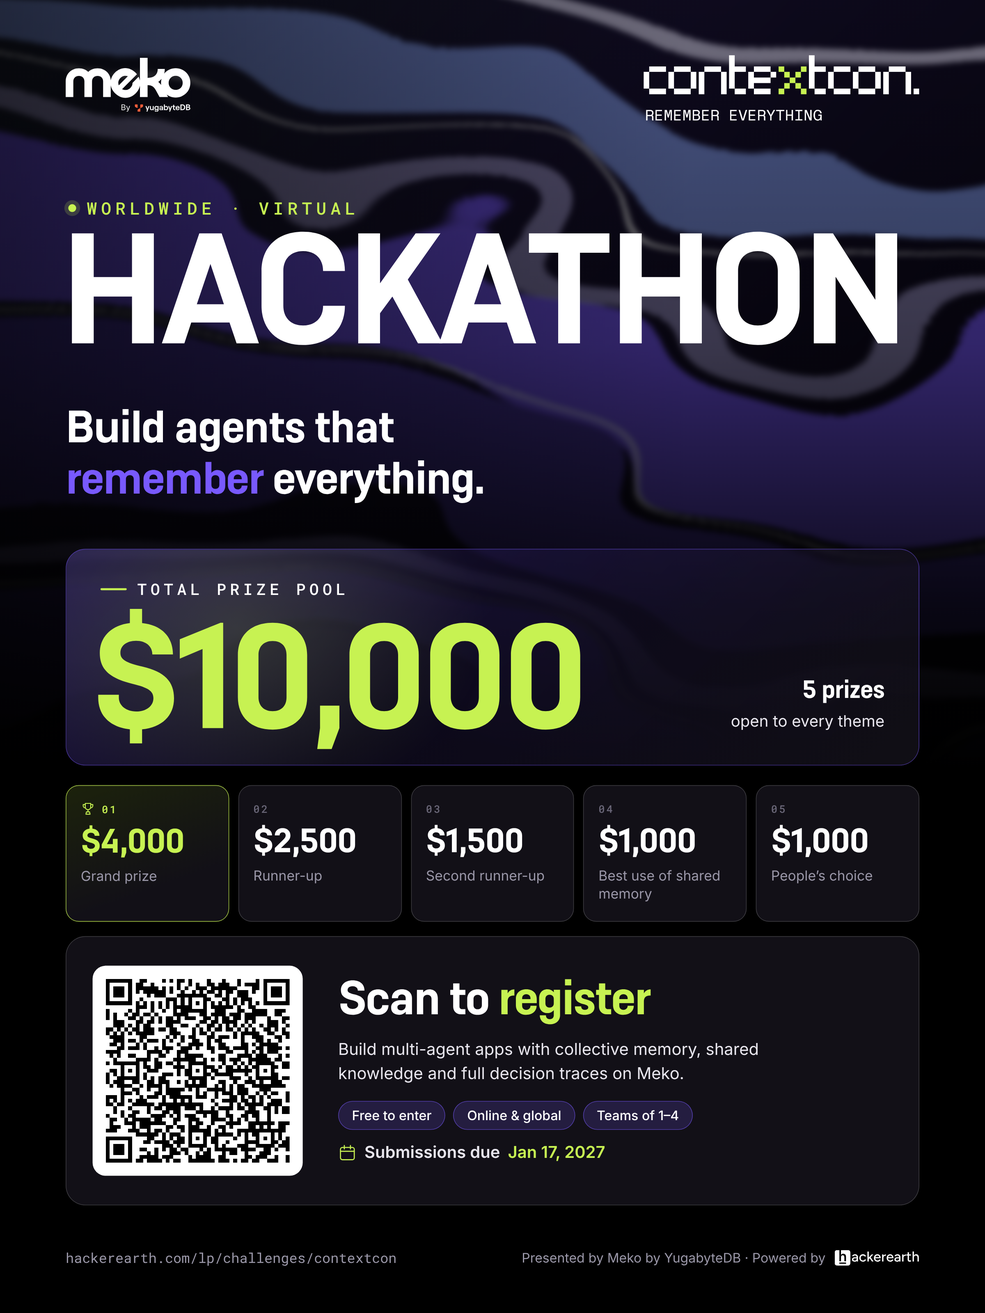
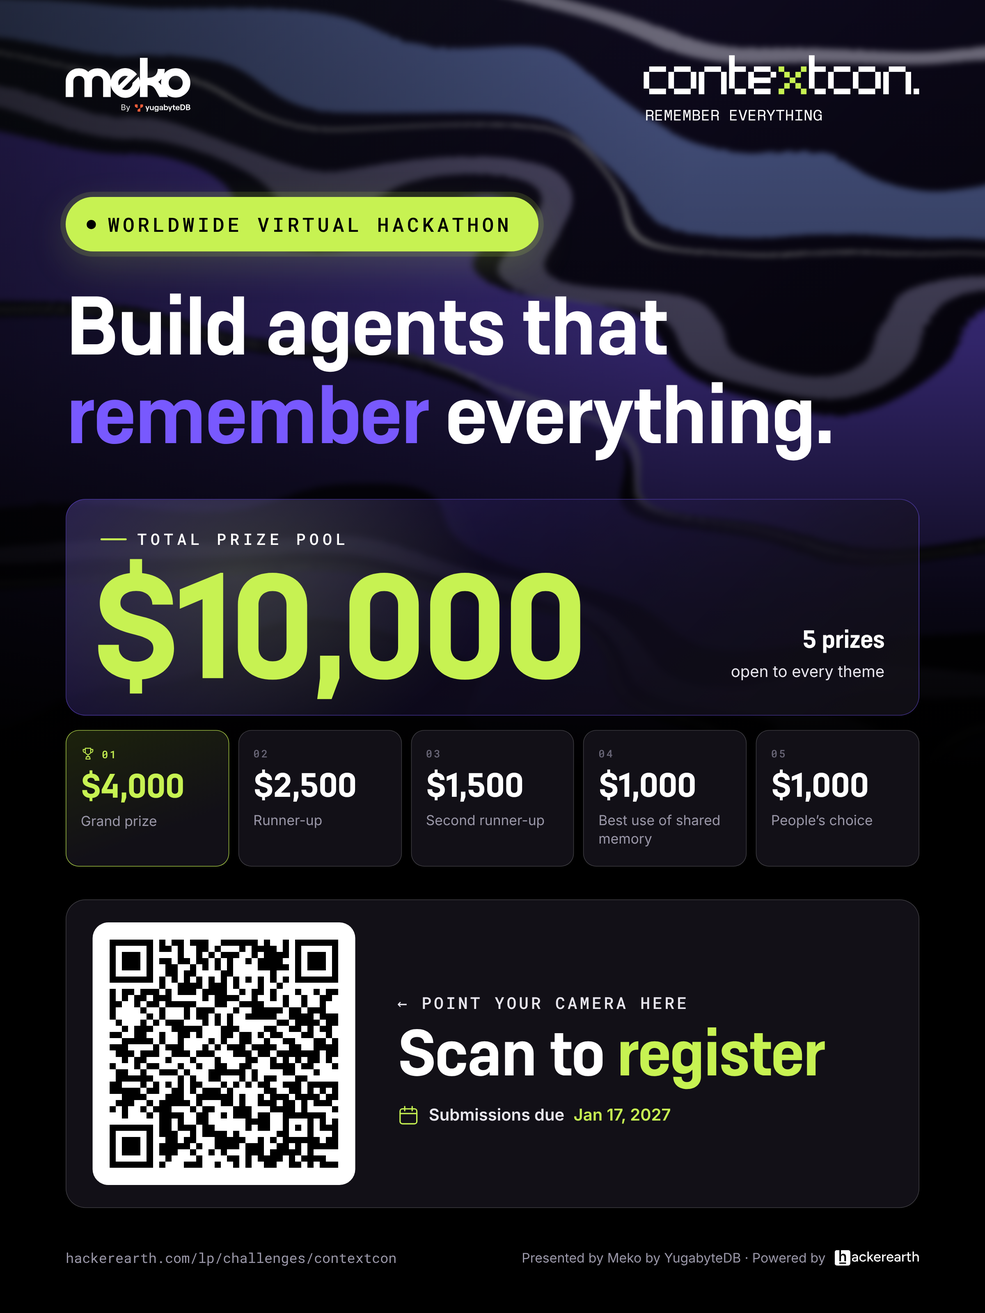
Prize poster: hackathon pill button, larger headline, big clean QR
Shorter QR link (37 modules vs 49) for easier scanning; registration
card reduced to call-to-action and deadline.

Claude-Session: https://claude.ai/code/session_011WvSfbuXTc2R9BKwTF66Kj

Changed region(s): [[0.0625, 0.125, 0.9375, 0.9062], [0.75, 0.4688, 0.9062, 0.6875], [0.5938, 0.5625, 0.7188, 0.6875]]

diff --git a/banners/contextcon-poster-prizes-2400x3200.html b/banners/contextcon-poster-prizes-2400x3200.html
@@ -28,13 +28,14 @@ body{min-height:100vh;display:grid;place-items:center;-webkit-font-smoothing:ant
 .meko svg{display:block;width:100%;height:auto}
 .cc{position:absolute;right:0;top:84px;width:420px}
 .cc img{display:block;width:100%;height:auto}
-.eyebrow{position:absolute;left:4px;top:300px;margin:0;display:flex;align-items:center;gap:16px;font-family:var(--mono);font-weight:500;font-size:26px;letter-spacing:.24em;text-transform:uppercase;color:var(--lime)}
-.eyebrow::before{content:'';width:12px;height:12px;border-radius:50%;background:var(--lime);box-shadow:0 0 0 6px rgba(199,242,82,.18)}
-.hack{position:absolute;left:-8px;top:348px;margin:0;font-family:'Bloka',var(--sans);font-weight:700;font-size:250px;line-height:.9;letter-spacing:-.03em;text-transform:uppercase;color:var(--white)}
-h1{position:absolute;left:0;top:618px;width:1300px;margin:0;font-family:'Bloka',var(--sans);font-weight:700;font-size:72px;line-height:1.08;letter-spacing:-.025em;color:var(--white)}
+.pillbtn{position:absolute;left:0;top:300px;margin:0;display:inline-flex;align-items:center;gap:18px;padding:22px 40px 22px 32px;border-radius:999px;
+  background:var(--lime);color:#000;font-family:var(--mono);font-weight:500;font-size:30px;letter-spacing:.16em;text-transform:uppercase;
+  box-shadow:0 0 0 8px rgba(199,242,82,.14),0 20px 60px rgba(199,242,82,.18)}
+.pillbtn::before{content:'';width:14px;height:14px;border-radius:50%;background:#000}
+h1{position:absolute;left:0;top:440px;width:1300px;margin:0;font-family:'Bloka',var(--sans);font-weight:700;font-size:132px;line-height:1.02;letter-spacing:-.025em;color:var(--white)}
 h1 em{font-style:normal;color:var(--purple)}
 /* prize hero card */
-.prize{position:absolute;left:0;right:0;top:836px;height:330px;border-radius:30px;overflow:hidden;
+.prize{position:absolute;left:0;right:0;top:760px;height:330px;border-radius:30px;overflow:hidden;
   background:linear-gradient(135deg,rgba(120,89,254,.28) 0%,rgba(74,53,162,.16) 45%,rgba(18,16,23,.9) 100%);border:1.5px solid rgba(120,89,254,.45)}
 .prize::before{content:'';position:absolute;left:-120px;top:-160px;width:760px;height:560px;border-radius:50%;background:radial-gradient(closest-side,rgba(199,242,82,.16),rgba(199,242,82,0))}
 .prize .lbl{position:absolute;left:52px;top:44px;margin:0;display:flex;align-items:center;gap:16px;font-family:var(--mono);font-weight:500;font-size:24px;letter-spacing:.24em;text-transform:uppercase;color:var(--white)}
@@ -43,7 +44,7 @@ h1 em{font-style:normal;color:var(--purple)}
 .prize .side{position:absolute;right:52px;bottom:48px;margin:0;text-align:right;font-size:24px;line-height:1.45;color:var(--text)}
 .prize .side b{display:block;font-family:'Bloka',var(--sans);font-weight:700;font-size:40px;color:var(--white);letter-spacing:-.02em}
 /* prize split */
-.tiles{position:absolute;left:0;right:0;top:1196px;display:grid;grid-template-columns:repeat(5,1fr);gap:14px}
+.tiles{position:absolute;left:0;right:0;top:1112px;display:grid;grid-template-columns:repeat(5,1fr);gap:14px}
 .tile{position:relative;padding:24px 22px 26px;display:flex;flex-direction:column;gap:8px;min-height:190px;background:var(--panel);border:1.5px solid var(--line-2);border-radius:20px}
 .tile.top{background:linear-gradient(160deg,rgba(199,242,82,.14),rgba(18,16,23,1) 70%);border-color:rgba(199,242,82,.75)}
 .rk{display:flex;align-items:center;gap:10px;font-family:var(--mono);font-weight:500;font-size:16px;letter-spacing:.16em;color:var(--dim)}
@@ -53,18 +54,19 @@ h1 em{font-style:normal;color:var(--purple)}
 .tile.top .amt{color:var(--lime)}
 .tile .lbl{font-size:21px;line-height:1.35;color:var(--muted)}
 /* registration card */
-.reg{position:absolute;left:0;right:0;top:1426px;height:410px;display:flex;align-items:center;gap:54px;padding:0 40px;
+.reg{position:absolute;left:0;right:0;top:1370px;height:470px;display:flex;align-items:center;gap:64px;padding:0 40px;
   background:var(--panel);border:1.5px solid var(--line-2);border-radius:30px}
-.qr{flex:none;width:320px;height:320px;background:#fff;border-radius:20px;padding:20px}
+.qr{flex:none;width:400px;height:400px;background:#fff;border-radius:24px;padding:26px}
 .qrsvg{display:block;width:100%;height:100%;shape-rendering:crispEdges}
-.regtxt h2{margin:0;font-family:'Bloka',var(--sans);font-weight:700;font-size:76px;line-height:1;letter-spacing:-.03em;color:var(--white)}
+.regtxt h2{margin:14px 0 0;font-family:'Bloka',var(--sans);font-weight:700;font-size:104px;line-height:1;letter-spacing:-.03em;color:var(--white)}
 .regtxt h2 span{color:var(--lime)}
 .regtxt p{margin:16px 0 0;max-width:720px;font-size:25px;line-height:1.5;color:var(--text);text-wrap:pretty}
 .chips{margin-top:22px;display:flex;flex-wrap:wrap;gap:12px}
 .chip{font-size:20px;font-weight:500;color:var(--white);background:rgba(120,89,254,.18);border:1.5px solid rgba(120,89,254,.55);border-radius:999px;padding:9px 20px}
-.due{margin:22px 0 0;display:flex;align-items:center;gap:12px;font-size:23px;font-weight:600;color:var(--white)}
+.arrow{margin:0;font-family:var(--mono);font-weight:500;font-size:22px;letter-spacing:.14em;text-transform:uppercase;color:var(--muted)}
+.due{margin:30px 0 0;display:flex;align-items:center;gap:14px;font-size:30px;font-weight:600;color:var(--white)}
 .due b{color:var(--lime);font-weight:600}
-.due svg{width:28px;height:28px;color:var(--lime)}
+.due svg{width:34px;height:34px;color:var(--lime)}
 .foot{position:absolute;left:0;right:0;bottom:70px;display:flex;align-items:center;justify-content:space-between}
 .url{font-family:var(--mono);font-size:21px;color:var(--muted)}
 .credit{display:flex;align-items:center;gap:14px;font-size:20px;color:var(--muted)}
@@ -78,8 +80,7 @@ h1 em{font-style:normal;color:var(--purple)}
   <div class="pad">
     <div class="meko"><svg xmlns="http://www.w3.org/2000/svg" role="img" aria-label="Meko by YugabyteDB" viewBox="0 0 943.4 409.61"><path fill="#ffffff" d="M 881.02 210.62 C 878.36 217.12 874.66 222.82 869.94 227.69 C 865.21 232.55 859.59 236.33 853.08 238.99 C 846.58 241.65 839.18 242.98 831.79 242.98 C 824.41 242.98 817.46 241.65 810.95 238.99 C 804.45 236.33 798.77 232.55 793.88 227.69 C 789.02 222.82 785.24 217.12 782.58 210.62 C 779.93 204.12 778.59 197.18 778.59 189.78 C 778.59 182.09 779.93 174.99 782.58 168.49 C 785.24 161.98 789.02 156.36 793.88 151.64 C 798.75 146.91 804.45 143.21 810.95 140.55 C 817.46 137.89 824.39 136.56 831.79 136.56 C 847.17 136.56 859.88 141.59 869.94 151.64 C 879.98 161.7 885.01 174.42 885.01 189.78 C 885.01 197.16 883.68 204.12 881.02 210.62 M 700.15 182.27 C 709.77 175.62 718.07 167.79 725.09 158.77 C 722.32 168.58 720.94 178.91 720.94 189.78 C 720.94 195.04 721.28 200.22 721.96 205.27 C 715.19 196.5 707.91 188.84 700.15 182.27 M 401.55 208.27 C 397.78 198.64 396.95 188.92 399.04 179.09 C 401.12 169.26 406.15 160.37 414.09 152.43 C 422.04 144.48 430.98 139.42 440.9 137.23 C 450.84 135.04 460.61 135.82 470.22 139.58 Z M 934.22 146.1 C 928.61 132.66 920.76 120.91 910.72 110.85 C 900.68 100.81 888.93 92.98 875.47 87.35 C 862.01 81.75 847.17 78.93 831.79 78.93 C 816.41 78.93 801.93 81.75 788.33 87.35 C 774.73 92.96 762.98 100.81 753.08 110.85 C 750.05 113.94 747.19 117.2 744.51 120.62 C 747.77 109.36 749.38 97.23 749.38 84.26 L 696.16 84.26 C 696.16 105.55 689.66 122.12 676.65 133.94 C 663.65 145.76 645.3 151.67 621.66 151.67 L 619.45 151.67 L 619.45 0 L 561.79 0 L 561.79 173 C 559.89 162.99 556.46 153.22 551.46 143.64 L 505.36 189.74 C 505.79 203.95 500.46 216.6 489.37 227.69 C 480.59 236.45 470.51 241.65 459.12 243.21 C 447.71 244.79 436.91 242.74 426.65 237.1 L 538.92 124.83 C 535.37 120.03 532.02 116.06 528.88 112.92 C 517.6 101.62 505.18 93.1 491.71 87.35 C 478.25 81.62 464.54 78.69 450.64 78.59 C 436.75 78.48 423.11 81.26 409.73 86.9 C 396.32 92.54 384 101.01 372.72 112.29 C 361.42 123.59 352.97 135.91 347.31 149.3 C 344.2 156.67 341.98 164.11 340.61 171.63 C 339.96 159.95 337.59 149.01 333.48 138.81 C 328.59 126.7 321.73 116.28 312.85 107.55 C 303.98 98.83 293.48 92.04 281.36 87.16 C 269.23 82.29 255.63 79.84 241.44 79.84 C 227.24 79.84 214.09 82.21 201.96 86.94 C 189.84 91.68 179.34 98.33 170.47 106.9 C 161.88 98.33 151.55 91.66 139.43 86.94 C 127.3 82.21 114.45 79.84 99.95 79.84 C 85.45 79.84 72.16 82.29 60.03 87.16 C 47.9 92.02 37.41 98.83 28.54 107.55 C 19.68 116.26 12.73 126.68 7.7 138.81 C 2.66 150.93 0.15 164.09 0.15 178.28 L 0.15 297.13 L 57.8 297.13 L 57.8 178.71 C 57.8 166.3 61.65 156.32 69.34 148.78 C 77.03 141.25 87.21 137.48 99.93 137.48 L 99.99 137.48 C 112.71 137.48 122.84 141.25 130.37 148.78 C 137.89 156.31 141.67 166.3 141.67 178.71 L 141.67 297.13 L 199.32 297.13 L 199.32 178.71 C 199.32 166.3 203.17 156.32 210.86 148.78 C 218.55 141.25 228.73 137.48 241.45 137.48 C 254.18 137.48 264.31 141.25 271.84 148.78 C 279.36 156.31 283.14 166.3 283.14 178.71 L 283.14 297.13 L 340.79 297.13 L 340.79 208.61 C 342.25 216.24 344.58 223.79 347.78 231.3 C 353.53 244.79 362.04 257.17 373.33 268.47 L 373.36 268.47 C 384.86 279.97 397.35 288.59 410.84 294.32 C 424.32 300.09 437.95 302.95 451.75 302.95 C 465.55 302.95 479.15 300.14 492.52 294.49 C 505.92 288.84 518.25 280.38 529.53 269.08 C 538.31 260.31 545.46 250.74 551.02 240.39 C 556.24 230.62 559.84 220.62 561.79 210.39 L 561.79 297.11 L 619.45 297.11 L 619.45 207.08 L 621.66 207.08 C 635.55 207.08 647.3 210.26 656.91 216.62 C 666.52 223 675.16 233.26 682.85 247.45 L 709.91 297.13 L 774.66 297.13 L 764.47 278.35 C 771.66 283.76 779.62 288.29 788.33 291.99 C 801.93 297.76 816.13 300.63 831.79 300.63 C 847.46 300.63 862.01 297.76 875.47 291.99 C 888.91 286.22 900.66 278.41 910.72 268.49 C 920.76 258.59 928.59 246.84 934.22 233.24 C 939.82 219.64 942.64 205.45 942.64 189.78 C 942.64 174.11 939.82 159.56 934.22 146.1 "/><path fill="#ffffff" d="M 926.7 389.04 L 918.33 389.04 L 918.33 376.73 L 926.7 376.73 C 932.21 376.73 934.87 379 934.87 382.93 C 934.87 386.88 932.21 389.04 926.7 389.04 M 918.33 359.5 L 926.3 359.5 C 930.73 359.5 932.9 361.38 932.9 364.72 C 932.9 368.07 930.73 369.84 926.4 369.84 L 918.33 369.84 Z M 935.26 372.6 C 937.92 371.22 940.48 368.17 940.48 364.04 C 940.48 356.95 934.87 353.01 926.99 353.01 L 910.26 353.01 L 910.26 396.12 L 927.59 396.12 C 936.64 396.12 942.64 391.4 942.64 383.32 C 942.64 377.62 939.3 374.07 935.27 372.59 Z M 935.26 372.6 "/><path fill="#ffffff" d="M 881.13 389.04 L 875.91 389.04 L 875.91 360 L 881.13 360 C 888.51 360 895.59 363.84 895.59 374.57 C 895.59 385.3 888.51 389.04 881.13 389.04 Z M 881.71 353.01 L 867.74 353.01 L 867.74 396.12 L 881.71 396.12 C 893.73 396.12 903.87 388.94 903.87 374.57 C 903.87 360.2 893.73 353.01 881.71 353.01 Z M 881.71 353.01 "/><path fill="#ffffff" d="M 846.67 370.24 C 851.2 370.24 853.85 373.19 854.25 377.13 L 838.89 377.13 C 839.68 372.5 842.44 370.24 846.67 370.24 Z M 854.54 385.79 C 853.76 388.74 851.2 390.32 847.26 390.32 C 842.54 390.32 839.29 387.17 838.7 382.15 L 861.63 382.15 C 861.76 381.3 861.82 380.45 861.82 379.59 C 861.82 372.11 857.1 364.53 846.67 364.53 C 836.23 364.53 831.41 372.3 831.41 380.47 C 831.41 388.64 837.12 396.62 847.26 396.62 C 854.94 396.62 860.74 392.39 861.92 385.79 Z M 854.54 385.79 "/><path fill="#ffffff" d="M 828.86 371.42 L 828.86 365.02 L 820.29 365.02 L 820.29 355.66 L 812.71 355.66 L 812.71 365.02 L 806.61 365.02 L 806.61 371.42 L 812.71 371.42 L 812.71 385.3 C 812.71 392.19 817.14 396.12 823.93 396.12 L 828.86 396.12 L 828.86 389.73 L 824.72 389.73 C 821.97 389.73 820.29 388.15 820.29 385 L 820.29 371.42 Z M 828.86 371.42 "/><path fill="#ffffff" d="M 797.16 365.02 L 790.07 386.38 L 782.79 365.02 L 775.11 365.02 L 786.43 396.12 L 782.1 408.72 L 789.28 408.72 L 794.11 394.64 L 804.93 365.02 L 797.16 365.02 Z M 797.16 365.02 "/><path fill="#ffffff" d="M 758.27 390.12 C 753.25 390.12 749.9 386.29 749.9 380.57 C 749.9 374.86 753.25 371.12 758.27 371.12 C 763.29 371.12 766.64 374.86 766.64 380.57 C 766.64 386.28 763.29 390.12 758.27 390.12 M 759.55 364.53 C 755.52 364.53 752.17 366.3 750.39 368.86 L 750.39 353.02 L 742.82 353.02 L 742.82 396.12 L 750.39 396.12 L 750.39 392.29 C 752.17 394.95 755.62 396.62 759.36 396.62 C 768.71 396.62 774.22 390.12 774.22 380.57 C 774.22 371.02 768.71 364.53 759.55 364.53 Z M 759.55 364.53 "/><path fill="#ffffff" d="M 728.64 383.04 C 728.64 387.66 725.89 391 721.16 391 C 718.31 391 716.34 389.43 716.34 386.97 C 716.34 384.31 718.51 382.54 721.66 382.54 L 728.64 382.54 Z M 722.64 364.53 C 714.57 364.53 709.35 369.35 708.96 375.55 L 715.75 375.55 C 715.85 372.8 718.31 370.24 722.35 370.24 C 726.38 370.24 728.64 372.41 728.64 375.45 C 728.64 376.64 727.96 377.52 726.38 377.52 L 720.67 377.52 C 713.69 377.52 708.96 381.26 708.96 387.37 C 708.96 392.68 713.19 396.62 719.3 396.62 C 723.82 396.62 727.36 394.55 728.64 391.5 L 728.64 396.12 L 736.13 396.12 L 736.13 376.14 C 736.13 369.16 730.52 364.53 722.64 364.53 Z M 722.64 364.53 "/><path fill="#ffffff" d="M 658.36 365.02 L 658.36 382.05 C 658.36 386.58 655.31 389.92 651.07 389.92 C 646.84 389.92 644.58 386.97 644.58 382.74 L 644.58 365.02 L 637.1 365.02 L 637.1 384.31 C 637.1 391.59 641.43 396.61 648.62 396.61 C 653.04 396.61 656.59 394.75 658.36 391.3 L 658.36 396.12 L 665.95 396.12 L 665.95 365.02 Z M 658.36 365.02 "/><path fill="#ffffff" d="M 625.38 365.02 L 618.2 386.38 L 611.02 365.02 L 603.34 365.02 L 614.65 396.12 L 610.32 408.72 L 617.51 408.72 L 622.33 394.64 L 633.16 365.02 Z M 625.38 365.02 "/><path fill="#ffffff" d="M 687.3 390.12 C 682.28 390.12 678.93 386.28 678.93 380.57 C 678.93 374.86 682.28 371.12 687.3 371.12 C 692.32 371.12 695.77 374.86 695.77 380.57 C 695.77 386.27 692.42 390.12 687.3 390.12 M 695.18 365.02 L 695.18 368.56 C 693.41 366.2 690.06 364.53 686.12 364.53 C 676.87 364.53 671.45 371.12 671.45 380.57 C 671.45 390.02 676.87 396.62 686.22 396.62 C 690.75 396.62 693.7 395.04 695.27 392.68 L 695.27 393.18 C 695.27 398.98 693.41 402.92 687.3 402.92 C 683.46 402.92 681.5 401.35 680.21 398.29 L 672.64 398.29 C 674.31 405.87 679.43 409.22 687.3 409.22 C 697.14 409.22 702.46 403.31 702.46 393.18 L 702.76 365.02 L 695.18 365.02 Z M 695.18 365.02 "/><path fill="#ff5f3b" d="M 539.94 353.01 C 541.34 353.01 542.05 353.01 542.59 353.28 C 543.05 353.52 543.44 353.91 543.68 354.38 C 543.95 354.91 543.95 355.62 543.95 357.02 L 543.95 374.68 C 543.95 376.77 543.95 377.82 543.51 378.46 C 543.12 379.02 542.53 379.41 541.86 379.52 C 541.09 379.64 540.14 379.2 538.24 378.32 L 533.3 376.01 C 529.73 374.35 527.94 373.52 526.63 372.23 C 525.48 371.09 524.6 369.71 524.05 368.18 C 523.45 366.45 523.45 364.48 523.45 360.55 L 523.45 357.02 C 523.45 355.62 523.45 354.91 523.72 354.38 C 523.96 353.91 524.34 353.52 524.81 353.28 C 525.35 353.01 526.05 353.01 527.46 353.01 Z M 539.94 353.01 "/><path fill="#ff5f3b" d="M 580.96 353.01 C 582.37 353.01 583.07 353.01 583.61 353.28 C 584.08 353.52 584.46 353.91 584.71 354.38 C 584.98 354.91 584.98 355.62 584.98 357.02 L 584.98 360.55 C 584.98 364.49 584.98 366.46 584.37 368.18 C 583.83 369.71 582.95 371.1 581.79 372.23 C 580.48 373.52 578.7 374.35 575.13 376.01 L 564.47 380.98 L 564.47 357.02 C 564.47 355.62 564.47 354.91 564.74 354.38 C 564.98 353.91 565.37 353.52 565.84 353.28 C 566.38 353.01 567.08 353.01 568.48 353.01 Z M 580.96 353.01 "/><path fill="#ff5f3b" d="M 564.47 380.98 L 564.47 404.95 C 564.47 406.35 564.47 407.05 564.2 407.59 C 563.95 408.06 563.57 408.45 563.1 408.69 C 562.56 408.96 561.86 408.96 560.45 408.96 L 547.97 408.96 C 546.57 408.96 545.86 408.96 545.33 408.69 C 544.86 408.45 544.47 408.06 544.23 407.59 C 543.96 407.05 543.96 406.35 543.96 404.95 L 543.96 401.42 C 543.96 397.48 543.96 395.51 544.57 393.78 C 545.11 392.25 545.99 390.87 547.15 389.73 C 548.46 388.45 550.24 387.62 553.81 385.95 Z M 564.47 380.98 "/><path fill="#ffffff" d="M 427.5 391.49 L 437.88 391.49 C 441.29 391.49 443.71 390.83 445.16 389.5 C 446.6 388.17 447.32 386.56 447.32 384.66 C 447.32 383.2 446.95 381.85 446.2 380.61 C 445.46 379.36 444.39 378.36 443.02 377.61 C 441.64 376.86 440.01 376.48 438.13 376.48 L 427.5 376.48 Z M 427.5 371.93 L 437.2 371.93 C 438.77 371.93 440.2 371.62 441.47 371 C 442.74 370.38 443.75 369.52 444.5 368.39 C 445.26 367.27 445.63 365.95 445.63 364.43 C 445.63 362.53 444.97 360.92 443.65 359.59 C 442.33 358.26 440.23 357.6 437.37 357.6 L 427.5 357.6 Z M 422.28 396.13 L 422.28 352.96 L 437.37 352.96 C 440.38 352.96 442.86 353.48 444.81 354.51 C 446.76 355.54 448.22 356.93 449.17 358.66 C 450.13 360.4 450.61 362.32 450.61 364.43 C 450.61 366.28 450.28 367.81 449.62 369.02 C 448.97 370.23 448.12 371.19 447.05 371.89 C 446 372.59 444.84 373.11 443.61 373.45 L 443.61 373.87 C 444.93 373.96 446.26 374.42 447.59 375.26 C 448.93 376.11 450.04 377.31 450.95 378.89 C 451.84 380.46 452.29 382.39 452.29 384.66 C 452.29 386.82 451.8 388.77 450.82 390.5 C 449.83 392.23 448.28 393.6 446.16 394.61 C 444.04 395.62 441.28 396.13 437.88 396.13 Z M 422.28 396.13 "/><path fill="#ffffff" d="M 463.42 408.19 C 462.58 408.19 461.83 408.12 461.17 407.98 C 460.5 407.85 460.05 407.72 459.8 407.59 L 461.06 403.21 C 462.88 403.68 464.38 403.66 465.59 403.18 C 466.8 402.7 467.85 401.24 468.73 398.83 L 469.66 396.3 L 457.69 363.75 L 463.09 363.75 L 472.02 389.55 L 472.36 389.55 L 481.3 363.75 L 486.73 363.84 L 472.95 400.85 C 472.33 402.5 471.57 403.86 470.65 404.95 C 469.74 406.04 468.68 406.85 467.48 407.38 C 466.28 407.92 464.93 408.19 463.42 408.19 "/></svg></div>
     <div class="cc"><img src="assets/contextcon-logo-white.png" alt="ContextCon: Remember everything"></div>
-    <p class="eyebrow">Worldwide · Virtual</p>
-    <p class="hack">Hackathon</p>
+    <p class="pillbtn">Worldwide virtual hackathon</p>
     <h1>Build agents that<br><em>remember</em> everything.</h1>
     <div class="prize">
       <p class="lbl">Total prize pool</p>
@@ -88,11 +89,10 @@ h1 em{font-style:normal;color:var(--purple)}
     </div>
     <div class="tiles"><div class="tile top"><span class="rk"><svg viewBox="0 0 48 48" aria-hidden="true" fill="none" stroke="currentColor" stroke-width="3" stroke-linecap="round" stroke-linejoin="round"><path d="M15 6h18v12a9 9 0 0 1-18 0z"/><path d="M15 10H8v4a7 7 0 0 0 7 7"/><path d="M33 10h7v4a7 7 0 0 1-7 7"/><path d="M24 27v7"/><path d="M17 42h14l-2-8H19z"/></svg>01</span><span class="amt">$4,000</span><span class="lbl">Grand prize</span></div><div class="tile"><span class="rk">02</span><span class="amt">$2,500</span><span class="lbl">Runner-up</span></div><div class="tile"><span class="rk">03</span><span class="amt">$1,500</span><span class="lbl">Second runner-up</span></div><div class="tile"><span class="rk">04</span><span class="amt">$1,000</span><span class="lbl">Best use of shared memory</span></div><div class="tile"><span class="rk">05</span><span class="amt">$1,000</span><span class="lbl">People’s choice</span></div></div>
     <div class="reg">
-      <div class="qr"><svg class="qrsvg" viewBox="0 0 49 49" preserveAspectRatio="xMidYMid meet"><path class="qrline" stroke="#000" d="M0 0.5h7m2 0h2m4 0h1m1 0h1m1 0h2m1 0h1m4 0h1m3 0h1m3 0h1m4 0h1m1 0h7m-49 1h1m5 0h1m1 0h2m2 0h1m6 0h1m2 0h1m1 0h1m2 0h2m1 0h3m2 0h1m1 0h4m1 0h1m5 0h1m-49 1h1m1 0h3m1 0h1m1 0h6m1 0h1m1 0h1m1 0h1m1 0h1m2 0h3m1 0h7m4 0h2m1 0h1m1 0h3m1 0h1m-49 1h1m1 0h3m1 0h1m1 0h1m1 0h6m1 0h1m2 0h1m2 0h1m1 0h1m1 0h2m1 0h1m1 0h2m1 0h3m1 0h1m2 0h1m1 0h3m1 0h1m-49 1h1m1 0h3m1 0h1m4 0h1m1 0h3m3 0h8m2 0h2m1 0h1m2 0h3m4 0h1m1 0h3m1 0h1m-49 1h1m5 0h1m2 0h1m6 0h3m1 0h1m1 0h1m3 0h2m3 0h2m1 0h1m1 0h3m3 0h1m5 0h1m-49 1h7m1 0h1m1 0h1m1 0h1m1 0h1m1 0h1m1 0h1m1 0h1m1 0h1m1 0h1m1 0h1m1 0h1m1 0h1m1 0h1m1 0h1m1 0h1m1 0h1m1 0h1m1 0h7m-41 1h3m1 0h1m1 0h1m1 0h1m1 0h5m3 0h1m1 0h6m1 0h1m2 0h2m-40 1h1m5 0h1m1 0h1m3 0h1m2 0h1m2 0h1m1 0h7m2 0h3m3 0h2m2 0h4m2 0h3m-48 1h1m1 0h1m2 0h1m1 0h2m1 0h2m1 0h1m4 0h4m3 0h2m1 0h4m1 0h3m1 0h6m2 0h2m-47 1h1m1 0h1m3 0h2m1 0h1m2 0h1m1 0h1m1 0h2m1 0h1m1 0h3m2 0h2m1 0h1m1 0h2m1 0h2m1 0h3m3 0h1m3 0h2m-47 1h3m3 0h2m1 0h2m1 0h1m1 0h4m5 0h2m1 0h2m1 0h4m2 0h1m1 0h1m3 0h3m1 0h1m-46 1h3m1 0h1m1 0h1m1 0h2m4 0h2m2 0h2m2 0h1m2 0h2m1 0h1m1 0h1m1 0h1m1 0h1m1 0h1m2 0h1m1 0h3m2 0h1m-49 1h2m1 0h1m1 0h1m1 0h2m1 0h3m1 0h2m1 0h2m4 0h1m1 0h1m1 0h1m1 0h2m1 0h2m1 0h1m1 0h1m1 0h1m2 0h2m1 0h1m1 0h1m-48 1h1m1 0h1m1 0h1m1 0h1m1 0h5m4 0h3m3 0h1m1 0h2m1 0h1m5 0h1m1 0h5m2 0h2m2 0h2m-48 1h4m4 0h2m5 0h1m1 0h1m1 0h1m1 0h2m3 0h2m1 0h3m1 0h1m1 0h1m2 0h3m3 0h2m1 0h1m-47 1h3m1 0h2m1 0h1m1 0h3m1 0h1m1 0h1m2 0h1m2 0h2m2 0h1m1 0h2m5 0h1m3 0h2m1 0h1m2 0h1m-46 1h2m1 0h1m3 0h1m1 0h1m4 0h1m3 0h1m2 0h4m1 0h1m2 0h2m4 0h2m1 0h1m1 0h5m-43 1h2m1 0h3m1 0h1m2 0h1m1 0h3m2 0h3m1 0h1m2 0h2m1 0h3m1 0h4m2 0h2m1 0h4m1 0h1m-49 1h4m7 0h4m1 0h1m2 0h3m6 0h1m3 0h2m3 0h1m1 0h1m1 0h1m1 0h3m-45 1h1m1 0h1m2 0h2m3 0h1m2 0h2m3 0h1m1 0h5m4 0h2m3 0h4m1 0h3m3 0h1m1 0h1m-47 1h1m5 0h4m1 0h1m4 0h6m2 0h1m1 0h1m1 0h2m1 0h3m2 0h6m1 0h2m-47 1h1m1 0h7m1 0h1m2 0h2m1 0h2m1 0h1m2 0h5m4 0h1m2 0h1m1 0h1m1 0h1m1 0h5m2 0h2m-45 1h1m3 0h1m1 0h2m1 0h2m3 0h3m1 0h1m3 0h3m1 0h1m1 0h2m1 0h1m1 0h1m1 0h2m3 0h2m1 0h2m-48 1h2m1 0h1m1 0h1m1 0h1m2 0h3m5 0h1m1 0h2m1 0h1m1 0h1m1 0h2m2 0h7m1 0h1m1 0h1m1 0h1m-45 1h1m1 0h1m1 0h1m3 0h1m1 0h1m4 0h3m1 0h1m1 0h2m3 0h2m1 0h5m3 0h1m2 0h1m3 0h2m-46 1h1m2 0h6m1 0h1m1 0h1m1 0h2m6 0h5m1 0h1m4 0h3m2 0h1m1 0h6m1 0h2m-49 1h1m1 0h3m2 0h2m2 0h2m1 0h3m2 0h1m1 0h1m1 0h1m1 0h2m3 0h2m2 0h1m2 0h3m1 0h1m2 0h3m-46 1h1m1 0h4m2 0h1m1 0h4m1 0h1m4 0h6m2 0h1m1 0h1m1 0h1m1 0h2m2 0h9m-44 1h1m2 0h2m2 0h1m2 0h1m1 0h5m1 0h1m1 0h1m2 0h5m1 0h1m1 0h3m3 0h3m-40 1h3m1 0h1m4 0h2m1 0h4m4 0h1m1 0h1m2 0h1m1 0h3m1 0h3m2 0h1m1 0h1m1 0h2m2 0h1m-49 1h3m1 0h1m4 0h1m1 0h3m1 0h1m1 0h6m1 0h3m2 0h1m3 0h2m1 0h1m1 0h2m1 0h1m1 0h1m4 0h1m-49 1h1m1 0h1m1 0h1m1 0h1m1 0h3m4 0h1m2 0h1m1 0h1m1 0h1m5 0h1m2 0h4m1 0h2m1 0h1m1 0h1m2 0h3m1 0h1m-49 1h2m1 0h2m2 0h6m1 0h12m3 0h1m3 0h1m1 0h1m1 0h5m1 0h4m-45 1h1m3 0h1m4 0h1m1 0h2m1 0h4m1 0h3m1 0h1m2 0h1m1 0h4m1 0h2m1 0h2m2 0h2m1 0h1m1 0h2m-47 1h1m1 0h1m2 0h2m2 0h1m3 0h2m1 0h2m4 0h6m2 0h1m4 0h4m2 0h1m1 0h1m1 0h2m-49 1h1m3 0h1m1 0h2m4 0h4m1 0h1m1 0h1m1 0h3m2 0h1m1 0h2m2 0h2m2 0h2m1 0h2m2 0h1m-43 1h2m2 0h1m1 0h5m1 0h2m3 0h2m2 0h3m3 0h4m1 0h1m1 0h1m1 0h1m2 0h1m2 0h1m-43 1h1m3 0h3m1 0h7m2 0h1m3 0h1m1 0h2m2 0h1m3 0h4m2 0h7m1 0h3m-48 1h3m3 0h1m1 0h3m4 0h2m1 0h2m1 0h3m2 0h1m2 0h2m1 0h1m4 0h2m1 0h1m1 0h1m2 0h2m-48 1h3m3 0h3m2 0h1m1 0h2m1 0h1m3 0h1m1 0h6m1 0h1m1 0h1m3 0h13m-40 1h6m1 0h1m1 0h3m2 0h1m3 0h2m1 0h5m1 0h1m1 0h1m1 0h2m3 0h1m1 0h1m-47 1h7m4 0h2m2 0h1m1 0h1m1 0h2m1 0h1m1 0h1m1 0h1m1 0h2m4 0h1m2 0h1m2 0h1m1 0h1m1 0h1m1 0h1m1 0h1m-49 1h1m5 0h1m3 0h2m1 0h4m1 0h3m1 0h1m3 0h1m1 0h2m2 0h1m4 0h4m3 0h2m1 0h2m-49 1h1m1 0h3m1 0h1m8 0h3m1 0h1m2 0h5m2 0h1m1 0h1m3 0h3m2 0h5m1 0h3m-49 1h1m1 0h3m1 0h1m2 0h2m2 0h1m1 0h1m1 0h2m1 0h2m3 0h1m1 0h1m1 0h6m1 0h4m2 0h2m1 0h1m2 0h1m-49 1h1m1 0h3m1 0h1m4 0h1m1 0h1m3 0h3m1 0h1m2 0h1m1 0h2m3 0h1m1 0h2m2 0h1m3 0h3m-44 1h1m5 0h1m2 0h5m1 0h3m4 0h1m1 0h4m2 0h2m5 0h2m1 0h3m2 0h1m2 0h1m-49 1h7m1 0h2m1 0h4m1 0h1m1 0h2m2 0h7m1 0h3m1 0h1m1 0h2m1 0h2m2 0h3m2 0h1"/></svg></div>
+      <div class="qr"><svg class="qrsvg" viewBox="0 0 37 37" preserveAspectRatio="xMidYMid meet"><path class="qrline" stroke="#000" d="M0 0.5h7m1 0h1m1 0h2m1 0h3m2 0h6m1 0h1m2 0h1m1 0h7m-37 1h1m5 0h1m1 0h2m1 0h1m2 0h2m1 0h1m3 0h1m1 0h4m1 0h1m1 0h1m5 0h1m-37 1h1m1 0h3m1 0h1m4 0h1m2 0h1m1 0h1m1 0h3m2 0h1m1 0h4m1 0h1m1 0h3m1 0h1m-37 1h1m1 0h3m1 0h1m1 0h2m1 0h2m1 0h2m1 0h1m1 0h1m2 0h1m1 0h4m2 0h1m1 0h3m1 0h1m-37 1h1m1 0h3m1 0h1m2 0h2m2 0h1m1 0h1m1 0h1m1 0h1m4 0h5m1 0h1m1 0h3m1 0h1m-37 1h1m5 0h1m2 0h2m1 0h2m4 0h2m6 0h1m3 0h1m5 0h1m-37 1h7m1 0h1m1 0h1m1 0h1m1 0h1m1 0h1m1 0h1m1 0h1m1 0h1m1 0h1m1 0h1m1 0h1m1 0h7m-29 1h1m2 0h4m1 0h3m1 0h1m3 0h1m2 0h1m-28 1h1m1 0h2m1 0h3m1 0h1m1 0h3m1 0h4m2 0h1m1 0h2m1 0h1m3 0h1m2 0h1m1 0h2m-37 1h1m1 0h1m1 0h2m1 0h3m5 0h1m1 0h4m2 0h1m2 0h1m1 0h1m2 0h1m2 0h2m-36 1h2m2 0h1m1 0h2m1 0h5m3 0h2m2 0h4m3 0h1m2 0h1m2 0h1m-35 1h1m4 0h1m2 0h1m3 0h1m1 0h3m3 0h1m2 0h5m1 0h2m1 0h3m-35 1h1m5 0h1m1 0h1m3 0h1m1 0h2m1 0h1m1 0h1m2 0h5m2 0h4m1 0h3m-36 1h1m3 0h1m1 0h1m1 0h3m3 0h1m1 0h1m1 0h1m7 0h2m1 0h4m1 0h2m-35 1h1m1 0h3m3 0h5m3 0h3m4 0h2m2 0h2m1 0h1m1 0h2m-36 1h2m2 0h2m2 0h1m2 0h2m1 0h1m3 0h2m1 0h2m1 0h1m1 0h2m3 0h2m2 0h1m-34 1h5m1 0h1m2 0h1m4 0h1m1 0h1m2 0h2m2 0h1m2 0h2m3 0h2m1 0h1m-37 1h3m4 0h1m1 0h3m3 0h1m1 0h1m1 0h3m1 0h4m2 0h2m2 0h4m-36 1h3m1 0h3m2 0h3m1 0h3m3 0h3m1 0h2m1 0h7m1 0h2m-35 1h1m1 0h2m3 0h1m3 0h1m3 0h1m4 0h2m2 0h1m1 0h1m1 0h1m1 0h2m1 0h1m-36 1h1m3 0h1m1 0h2m3 0h1m2 0h1m2 0h2m2 0h2m3 0h4m1 0h2m3 0h1m-36 1h2m2 0h1m2 0h3m1 0h1m3 0h6m1 0h1m4 0h2m3 0h1m-33 1h6m4 0h1m1 0h1m2 0h2m3 0h1m1 0h1m1 0h2m3 0h2m-32 1h2m3 0h1m1 0h1m1 0h1m1 0h1m1 0h2m3 0h1m1 0h1m1 0h1m1 0h2m2 0h3m1 0h5m-37 1h5m1 0h2m2 0h2m1 0h1m1 0h3m1 0h1m5 0h2m2 0h2m1 0h1m1 0h1m1 0h1m-35 1h4m3 0h3m2 0h6m1 0h1m2 0h1m1 0h3m1 0h4m1 0h2m-36 1h3m2 0h1m1 0h5m1 0h1m3 0h2m1 0h1m2 0h3m1 0h2m1 0h1m1 0h3m-36 1h1m1 0h1m2 0h1m1 0h3m3 0h1m1 0h2m3 0h3m3 0h4m1 0h1m4 0h1m-35 1h1m3 0h1m1 0h4m2 0h2m2 0h1m1 0h3m1 0h2m2 0h7m-27 1h2m1 0h1m2 0h2m6 0h4m2 0h1m3 0h1m1 0h1m1 0h1m-37 1h7m1 0h2m1 0h3m1 0h2m5 0h1m1 0h2m2 0h1m1 0h1m1 0h1m1 0h3m-37 1h1m5 0h1m1 0h3m2 0h1m1 0h4m1 0h1m6 0h2m3 0h1m3 0h1m-37 1h1m1 0h3m1 0h1m2 0h2m1 0h2m3 0h5m2 0h1m1 0h1m1 0h6m1 0h2m-37 1h1m1 0h3m1 0h1m1 0h5m1 0h1m2 0h4m1 0h3m2 0h2m1 0h1m1 0h5m-37 1h1m1 0h3m1 0h1m1 0h3m2 0h1m2 0h1m1 0h1m3 0h3m1 0h5m1 0h1m-33 1h1m5 0h1m2 0h1m4 0h1m4 0h2m1 0h1m1 0h4m1 0h1m1 0h4m-35 1h7m1 0h1m3 0h3m2 0h1m2 0h1m1 0h1m2 0h2m2 0h2m1 0h1m1 0h3"/></svg></div>
       <div class="regtxt">
+        <p class="arrow">&larr; Point your camera here</p>
         <h2>Scan to <span>register</span></h2>
-        <p>Build multi-agent apps with collective memory, shared knowledge and full decision traces on Meko.</p>
-        <div class="chips"><span class="chip">Free to enter</span><span class="chip">Online &amp; global</span><span class="chip">Teams of 1–4</span></div>
         <p class="due"><svg viewBox="0 0 48 48" aria-hidden="true" fill="none" stroke="currentColor" stroke-width="2.8" stroke-linecap="round" stroke-linejoin="round"><rect x="6" y="10" width="36" height="32" rx="5"/><path d="M6 20h36M16 5v9M32 5v9"/></svg>Submissions due <b>Jan 17, 2027</b></p>
       </div>
     </div>
